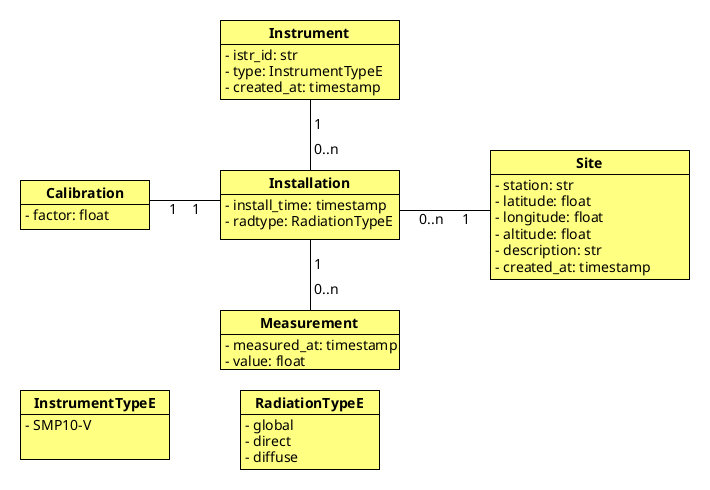
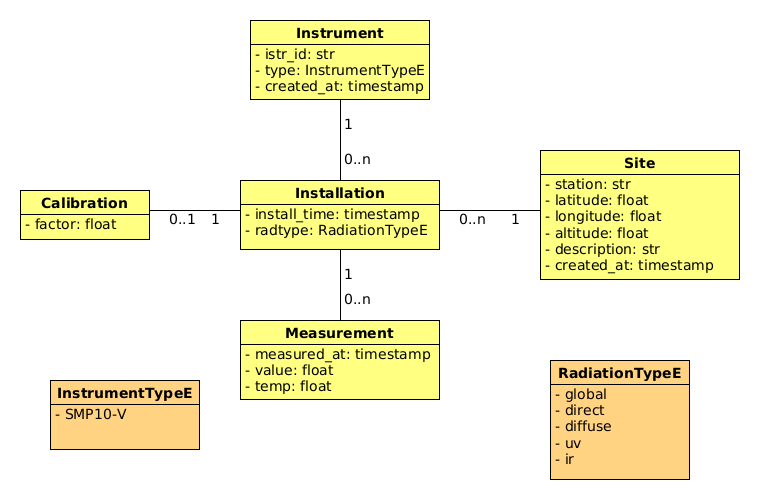
added temp to measurement and a couple more radiation types

Changed region(s): [[0.0, 0.0306, 0.9915, 0.9796], [0.7127, 0.7041, 0.9296, 0.9796], [0.031, 0.7347, 0.2789, 0.949]]

diff --git a/pyrano/data_access/raw.py b/pyrano/data_access/raw.py
@@ -28,6 +28,6 @@ def read_data_between(first: datetime, last: datetime, conf: StorageSettings) ->
         dfs.append(read_file(os.path.join(conf.output_dir, f)))
     df = pd.concat(dfs)
     df = df[(df['measured_at'] >= first) & (df['measured_at'] <= last)]
-    df = df.drop(columns=["temp", "voltage"])
+    df = df.drop(columns=["voltage"])
     df = df.rename(columns={'radiation': 'value'})
     return df
